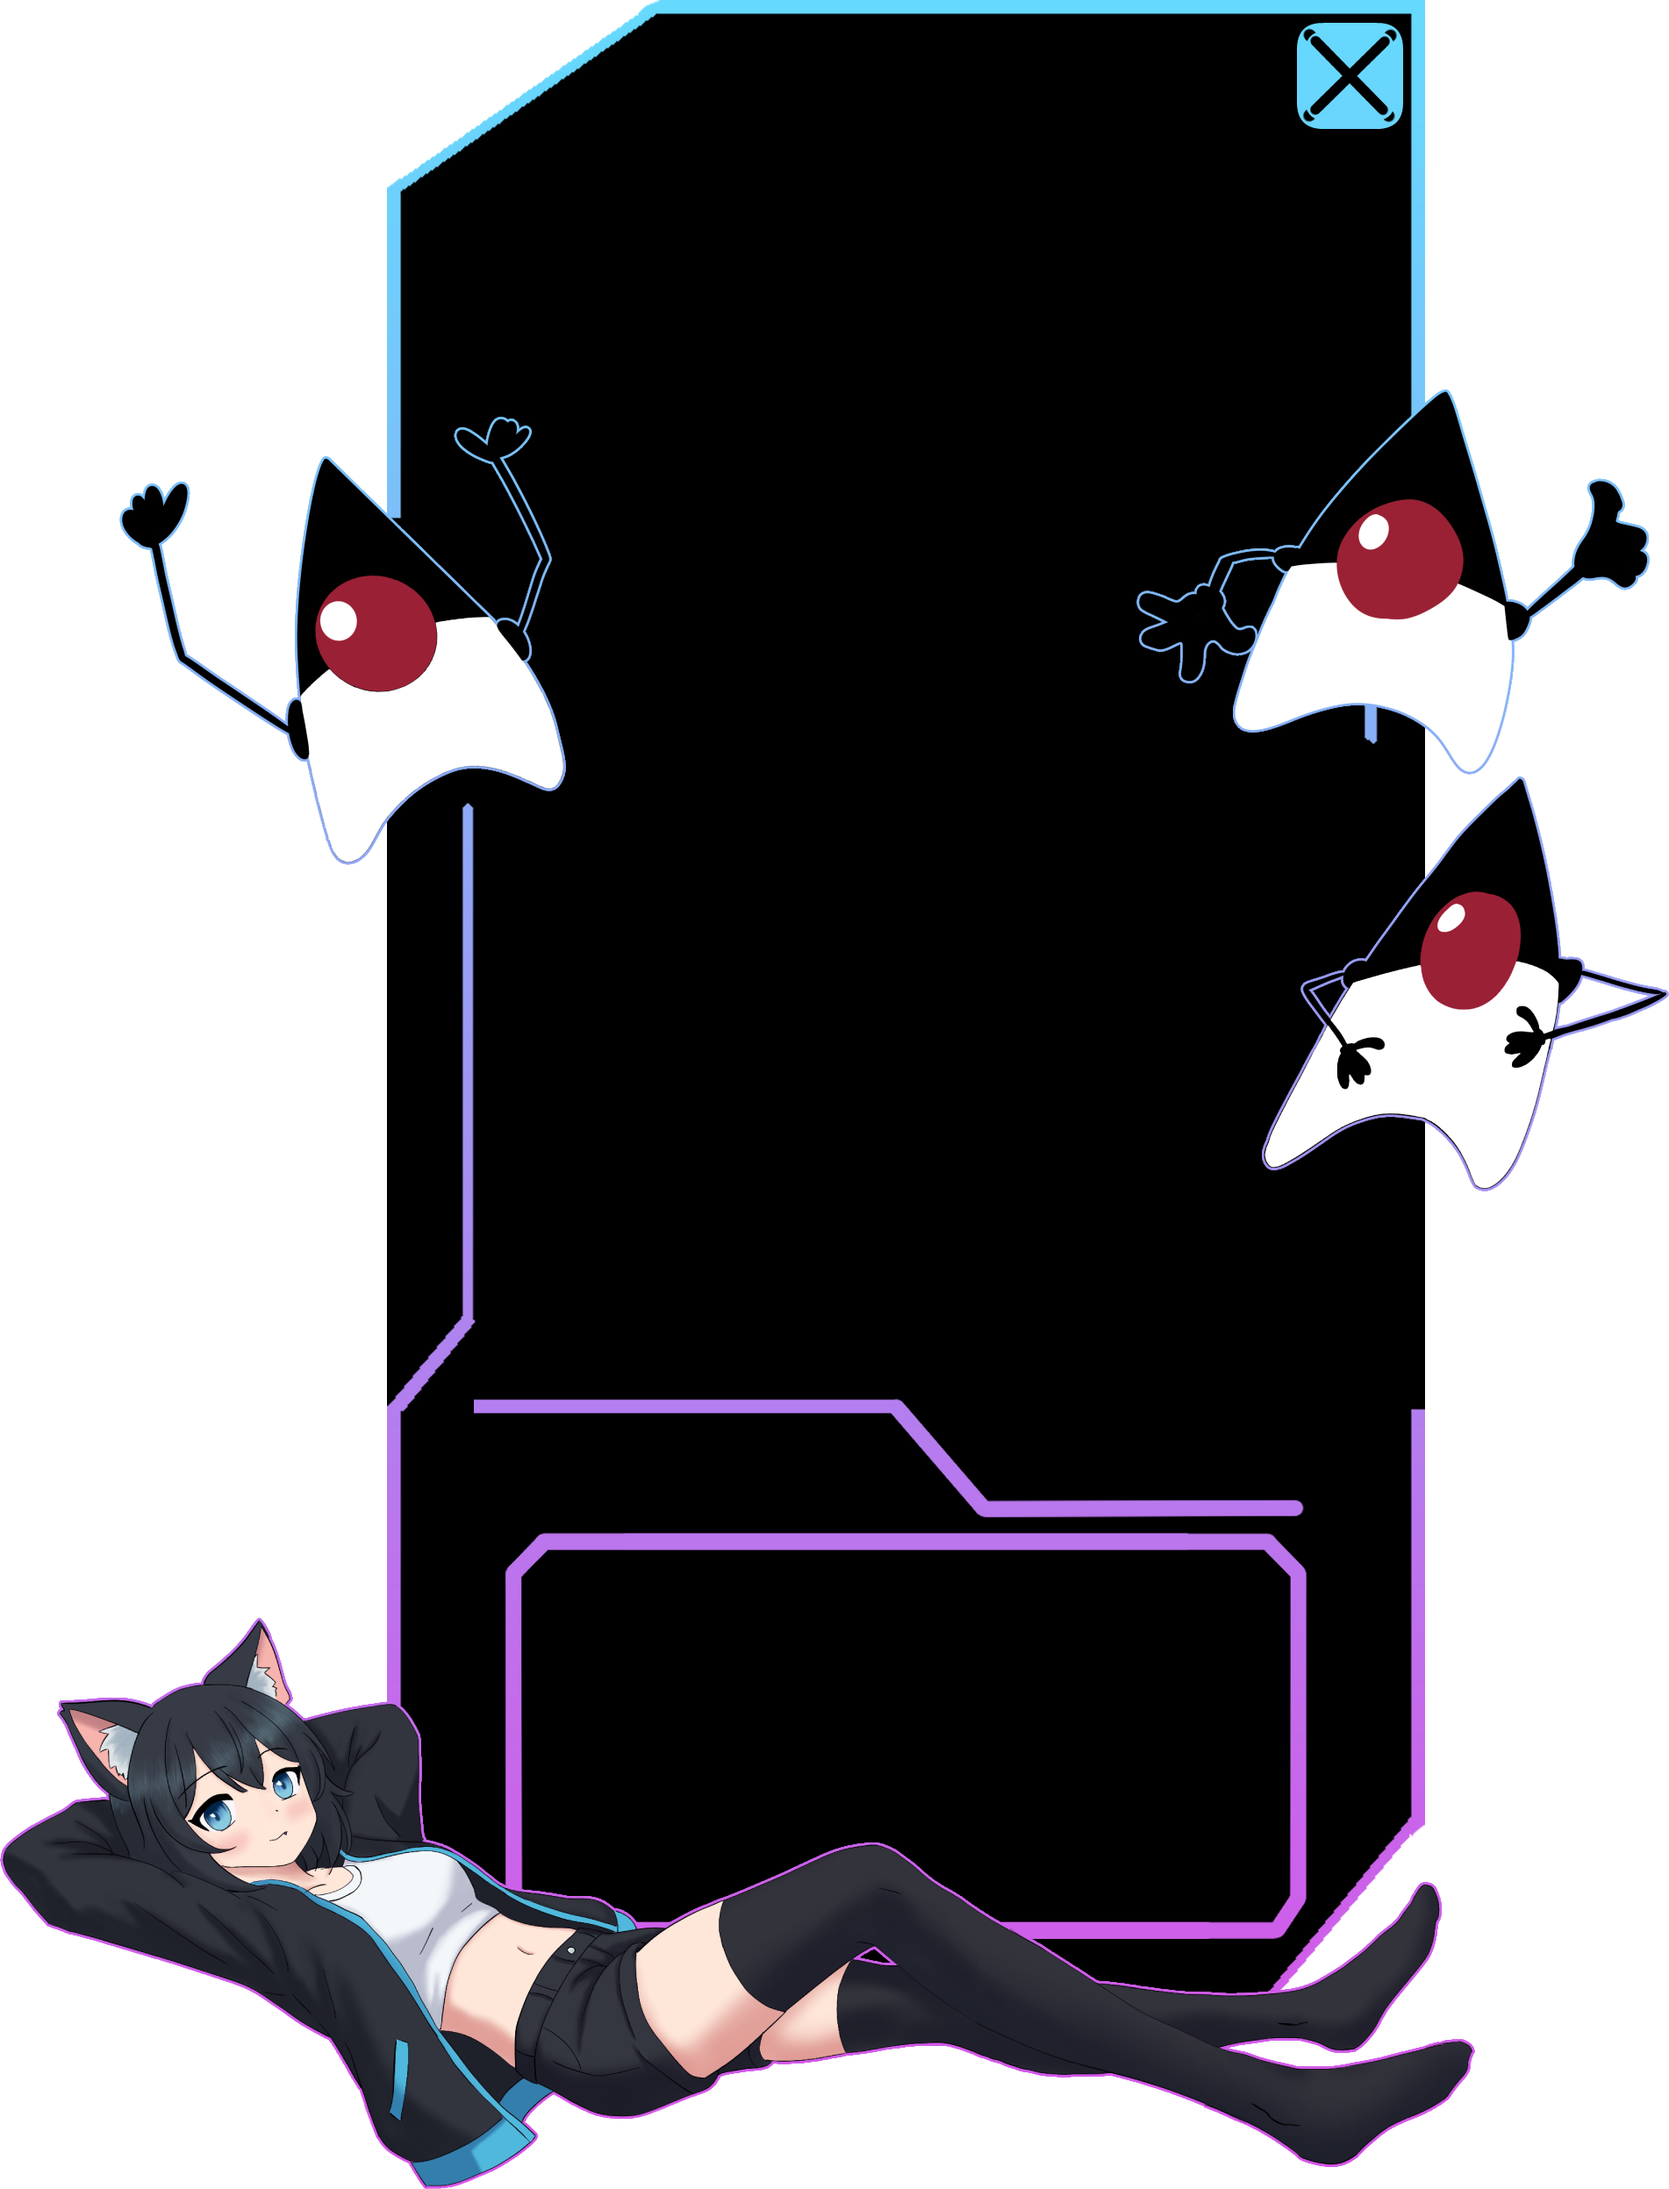
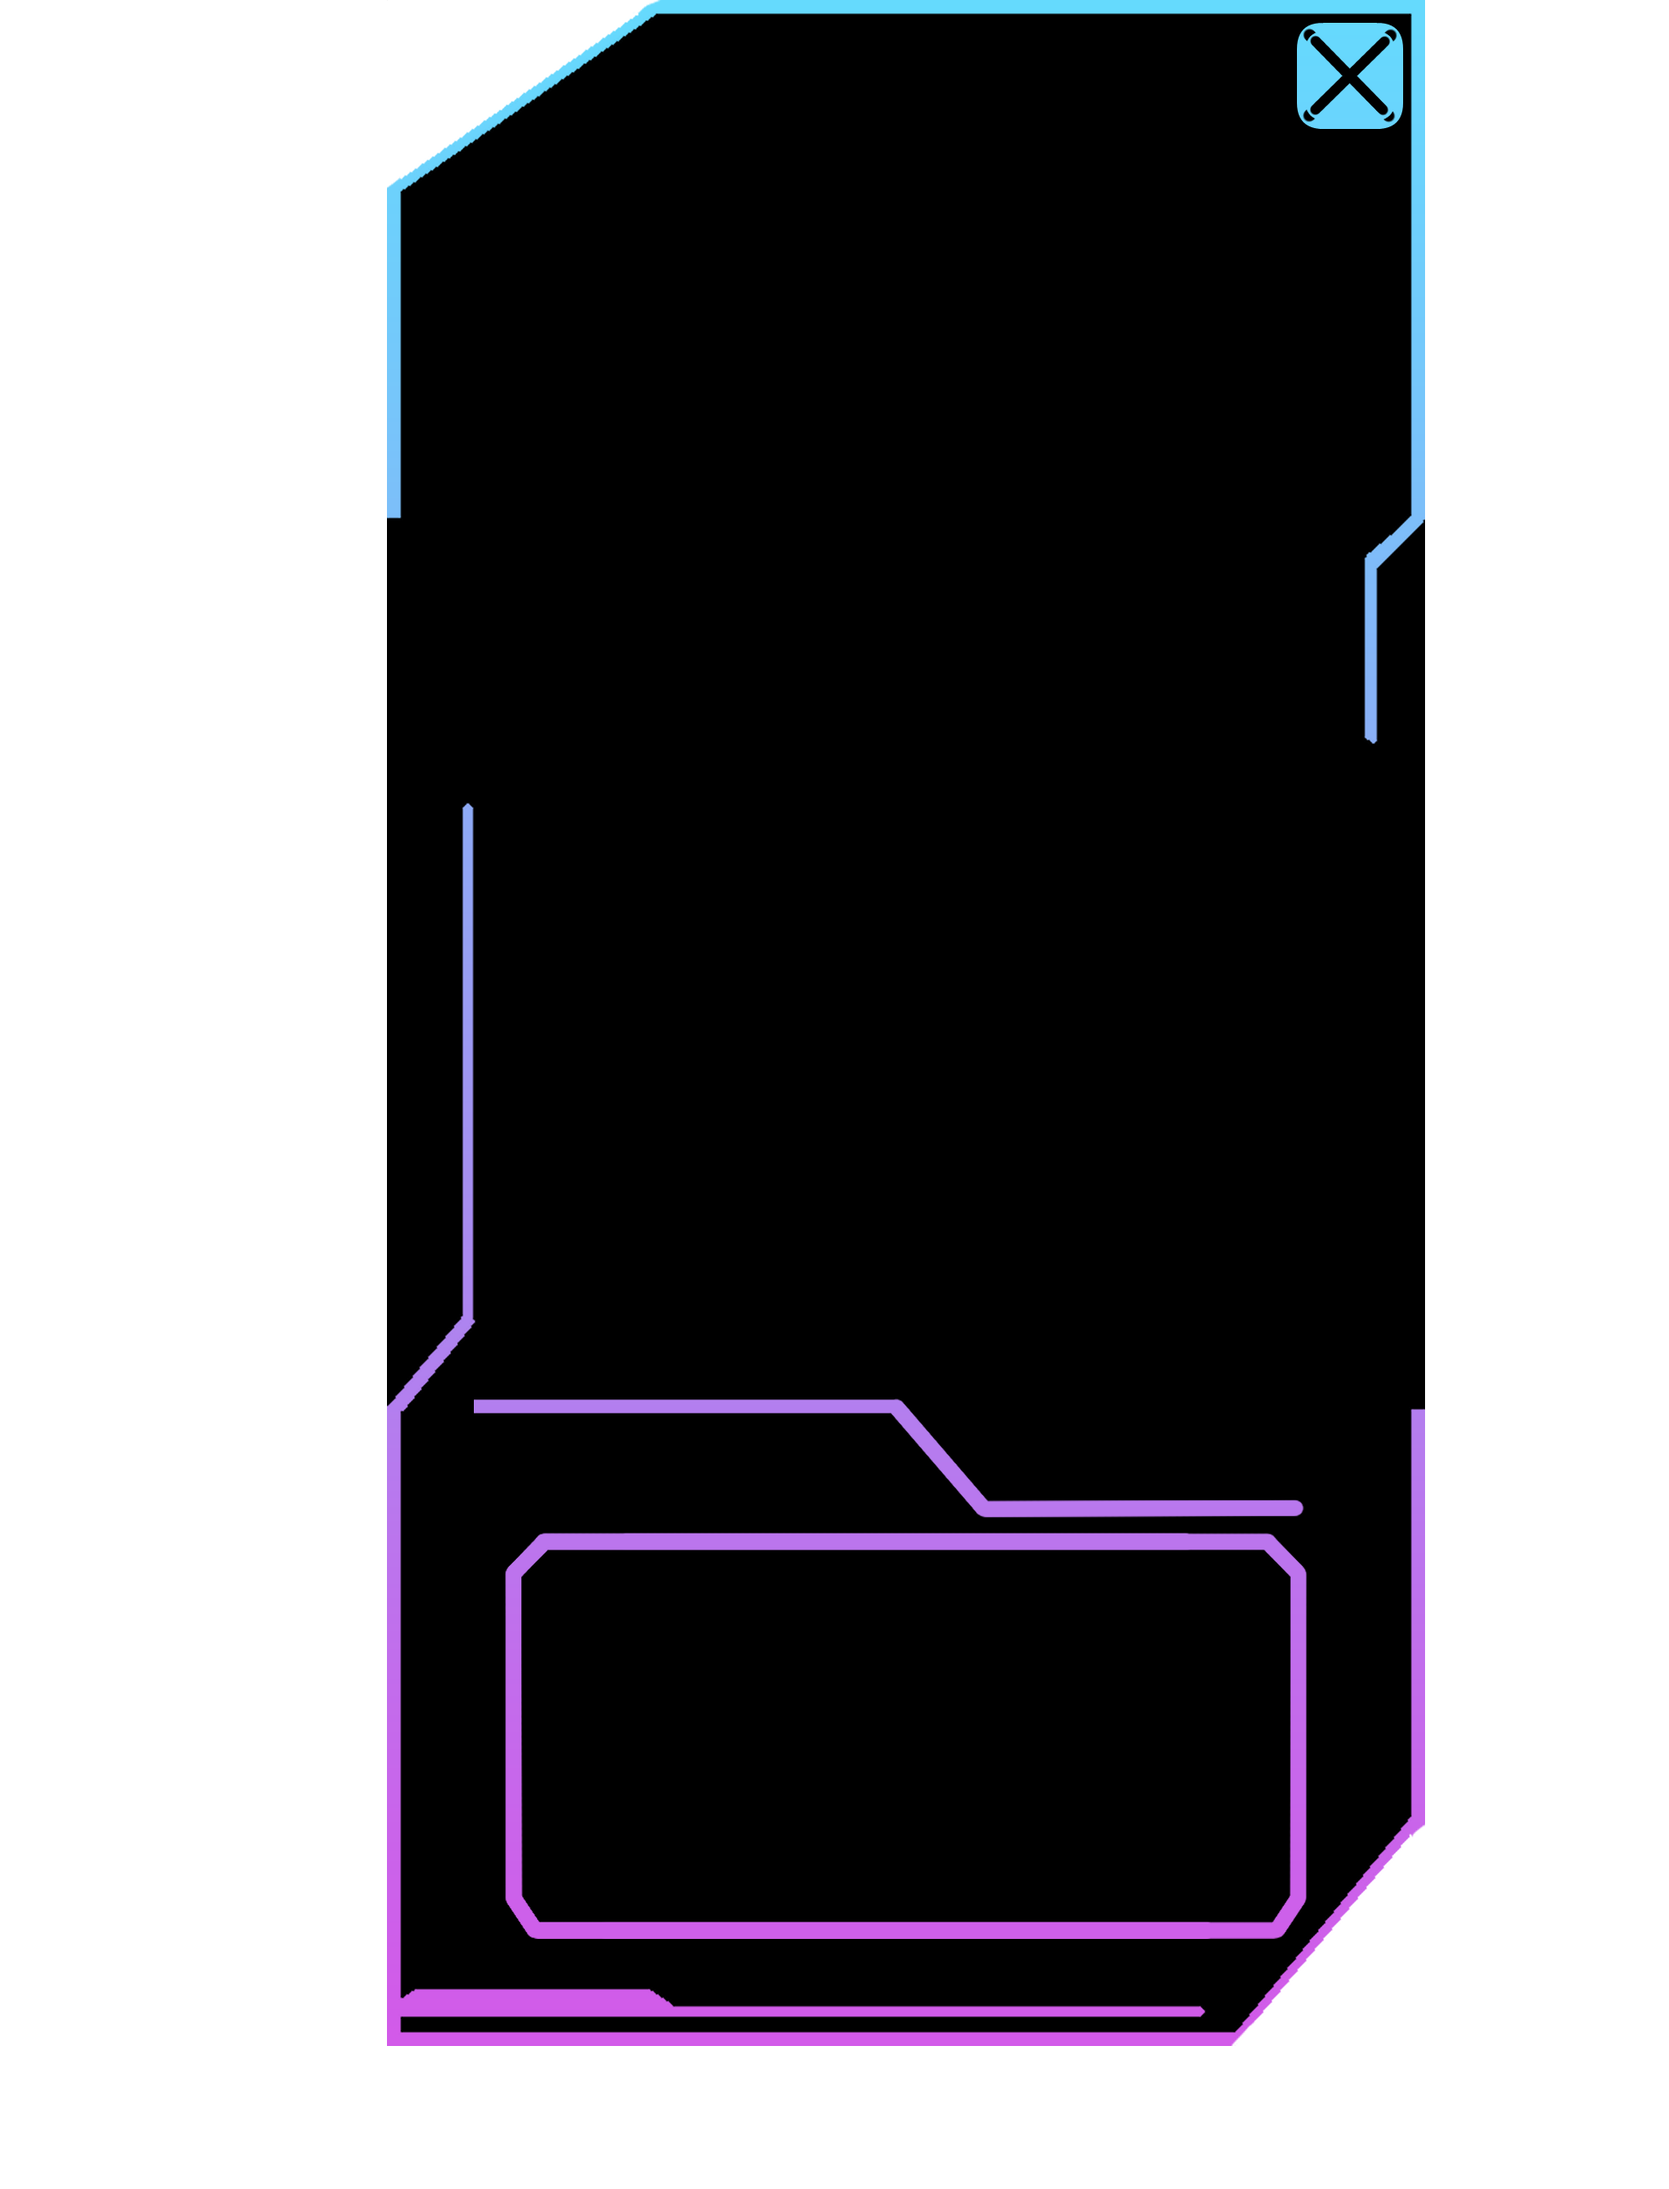
Had to rewrite the whole menuPanel.java for animated background... Also fixed a bug that the Menues flickered and added the sepret image files
Changes to be committed:
	modified:   .gitignore
	modified:   Main.java
	modified:   MenuPanel.java
	modified:   UIConfig.java
	modified:   img/background.png
	new file:   img/cgirl.png
	new file:   img/duke1.png
	new file:   img/duke2.png
	new file:   img/duke3.png

diff --git a/MenuPanel.java b/MenuPanel.java
@@ -2,22 +2,139 @@ import java.awt.*;
 import java.awt.image.BufferedImage;
 import java.io.File;
 import java.io.IOException;
+import java.util.ArrayList;
+import java.util.List;
 import java.net.URI;
 import javax.imageio.ImageIO;
 import javax.swing.*;
 
 public class MenuPanel extends JPanel {
-    private BufferedImage backgroundImage;
 
-    public MenuPanel() {
-        try {
-            backgroundImage = ImageIO.read(new File("img/background.png"));
-        } catch (IOException e) {
-            System.err.println("Could not load background image: " + e.getMessage());
+    private BufferedImage backgroundImage;
+    private List<FloatingElement> floaters;
+    private Timer animationTimer;
+    private BufferedImage frameBuffer;
+
+    private static BufferedImage scaleImage(BufferedImage src, int targetW, int targetH) {
+        if (src == null || targetW <= 0 || targetH <= 0) return src;
+        BufferedImage current = src;
+        int w = src.getWidth(), h = src.getHeight();
+        while (w > targetW || h > targetH) {
+            w = Math.max(targetW, w / 2);
+            h = Math.max(targetH, h / 2);
+            BufferedImage tmp = new BufferedImage(w, h, BufferedImage.TYPE_INT_ARGB);
+            Graphics2D g2 = tmp.createGraphics();
+            g2.setRenderingHint(RenderingHints.KEY_INTERPOLATION, RenderingHints.VALUE_INTERPOLATION_BICUBIC);
+            g2.setRenderingHint(RenderingHints.KEY_RENDERING, RenderingHints.VALUE_RENDER_QUALITY);
+            g2.drawImage(current, 0, 0, w, h, null);
+            g2.dispose();
+            current = tmp;
+        }
+        if (w != targetW || h != targetH) {
+            BufferedImage tmp = new BufferedImage(targetW, targetH, BufferedImage.TYPE_INT_ARGB);
+            Graphics2D g2 = tmp.createGraphics();
+            g2.setRenderingHint(RenderingHints.KEY_INTERPOLATION, RenderingHints.VALUE_INTERPOLATION_BICUBIC);
+            g2.drawImage(current, 0, 0, targetW, targetH, null);
+            g2.dispose();
+            current = tmp;
+        }
+        return current;
+    }
+
+    private static BufferedImage rotate(BufferedImage src, double degrees) {
+            if (src == null || degrees == 0) return src;
+            int w = src.getWidth(), h = src.getHeight();
+            int d = (int) Math.ceil(Math.hypot(w, h)) + 2;
+            BufferedImage out = new BufferedImage(d, d, BufferedImage.TYPE_INT_ARGB);
+            Graphics2D g2 = out.createGraphics();
+            g2.setRenderingHint(RenderingHints.KEY_INTERPOLATION, RenderingHints.VALUE_INTERPOLATION_BICUBIC);
+            g2.setRenderingHint(RenderingHints.KEY_ANTIALIASING, RenderingHints.VALUE_ANTIALIAS_ON);
+            g2.rotate(Math.toRadians(degrees), d / 2.0, d / 2.0);
+            g2.drawImage(src, (d - w) / 2, (d - h) / 2, null);
+            g2.dispose();
+            return out;
+    }
+
+
+
+    private class FloatingElement {
+        BufferedImage image;
+        int x;
+        double baseY, currentY;
+        int direction = 1;
+        double speed = 0.4;
+        int hoverLimit;
+
+        public FloatingElement(String imagePath, double centerX, double centerY, double designWidth, double tiltDegrees) {
+            double f = UIConfig.scaleFactor;
+            int w = (int) Math.round(designWidth * f);
+            this.hoverLimit = (int) Math.round(30 * f);
+            try {
+                BufferedImage src = ImageIO.read(new File(imagePath));
+                int h = (int) Math.round(w * (double) src.getHeight() / src.getWidth());
+
+                image = rotate(scaleImage(src, w, h), tiltDegrees);
+
+                this.x = (int) Math.round(centerX * f - image.getWidth() / 2.0);
+                this.baseY = centerY * f - image.getHeight() / 2.0;
+                this.currentY = this.baseY;
+            } catch (IOException e) {
+                System.err.println("Could not load " + imagePath);
+            }
         }
 
+        public void update() {
+            currentY += (speed * direction);
+            if (currentY >= baseY + hoverLimit) {
+                direction = -1; 
+            } else if (currentY <= baseY - hoverLimit) {
+                direction = 1; 
+            }
+        }
+        
+        public void draw(Graphics g) {
+            if (image != null) {
+                g.drawImage(image, x, (int) Math.round(currentY), null);
+            }
+        }
+    }
+
+    @Override
+    public void removeNotify() {
+        if (animationTimer != null) animationTimer.stop();
+        super.removeNotify();
+    }
+
+    public MenuPanel() {
+
+        try {
+            backgroundImage = scaleImage(ImageIO.read(new File("img/background.png")),
+                    Main.saveSystem.resWidth, Main.saveSystem.resHeight);
+        } catch (IOException e) {
+            System.err.println("Could not load background: " + e.getMessage());
+        }
+
+        floaters = new ArrayList<>();
+
+        floaters.add(new FloatingElement("img/cgirl.png", 842, 2196, 1689,   0));
+        floaters.add(new FloatingElement("img/duke1.png", 440,  711,  479, -24));
+        floaters.add(new FloatingElement("img/duke2.png", 1598, 661,  575,   8));
+        floaters.add(new FloatingElement("img/duke3.png", 1680, 1134, 466,   0));
+
+        floaters.get(1).direction = -1;
+        floaters.get(3).direction = -1;
+
+        animationTimer = new Timer(16, e -> {
+            for (FloatingElement floater : floaters) {
+                floater.update();
+            }
+            repaint();
+        });
+        animationTimer.start();
+
         this.setLayout(null);
-        this.setOpaque(false);
+
+        this.setDoubleBuffered(false);
 
         JLabel userLabel = new JLabel("Welcome, " + Main.saveSystem.username, SwingConstants.CENTER);
         userLabel.setFont(UIConfig.SUBTITLE_FONT);
@@ -46,7 +163,7 @@ public class MenuPanel extends JPanel {
                     int score = Main.saveSystem.getHighScore(levelName);
                     String grade = Main.saveSystem.getGrade(levelName);
                     JButton btn = new JButton(levelName + "  |  Best: " + score + " [" + grade + "]");
-                    
+
                     btn.setFont(UIConfig.LEVEL_BTN_FONT);
                     btn.setFocusPainted(false);
                     btn.setBounds(UIConfig.MENU_LEVEL_START_X, currentLevelY, UIConfig.LEVEL_BTN_SIZE.width, UIConfig.LEVEL_BTN_SIZE.height);
@@ -116,24 +233,52 @@ public class MenuPanel extends JPanel {
         }
 
     @Override
-    protected void paintComponent(Graphics g) {
-        super.paintComponent(g);
-        if (backgroundImage != null) {
-            g.drawImage(backgroundImage, 0, 0, getWidth(), getHeight(), this);
+    public boolean isOpaque() {
+        return true;
+    }
+
+    @Override
+    public void paint(Graphics g) {
+        int w = getWidth(), h = getHeight();
+        if (w <= 0 || h <= 0) return;
+
+        if (frameBuffer == null || frameBuffer.getWidth() != w || frameBuffer.getHeight() != h) {
+            frameBuffer = new BufferedImage(w, h, BufferedImage.TYPE_INT_ARGB);
         }
+
+        Graphics2D b = frameBuffer.createGraphics();
+        b.setComposite(AlphaComposite.Clear);
+        b.fillRect(0, 0, w, h);
+        b.setComposite(AlphaComposite.SrcOver);
+
+        if (backgroundImage != null) {
+            b.drawImage(backgroundImage, 0, 0, null);
+        }
+        for (FloatingElement floater : floaters) {
+            floater.draw(b);
+        }
+        paintChildren(b);
+        b.dispose();
+
+        Graphics2D g2 = (Graphics2D) g.create();
+        g2.setComposite(AlphaComposite.Src);
+        g2.drawImage(frameBuffer, 0, 0, null);
+        g2.dispose();
+
+        Toolkit.getDefaultToolkit().sync();
     }
 
     private void openSettingsMenu() {
         JDialog settingsDialog = new JDialog(Main.frame, "Settings", true);
-        settingsDialog.setSize(350, 350); 
-        settingsDialog.setLocationRelativeTo(this); 
+        settingsDialog.setSize(350, 350);
+        settingsDialog.setLocationRelativeTo(this);
         settingsDialog.getContentPane().setBackground(new Color(40, 40, 40));
         settingsDialog.setLayout(new BoxLayout(settingsDialog.getContentPane(), BoxLayout.Y_AXIS));
 
         JLabel nameLabel = new JLabel("Username:");
         nameLabel.setForeground(Color.WHITE);
         nameLabel.setAlignmentX(Component.CENTER_ALIGNMENT);
-        
+
         JTextField nameField = new JTextField(Main.saveSystem.username, 15);
         nameField.setMaximumSize(new Dimension(200, 30));
         nameField.setAlignmentX(Component.CENTER_ALIGNMENT);
@@ -154,26 +299,26 @@ public class MenuPanel extends JPanel {
         resLabel.setAlignmentX(Component.CENTER_ALIGNMENT);
 
         String[] resOptions = {
-            "951 x 1247 (Original)", 
-            "760 x 998", 
-            "634 x 831", 
+            "951 x 1247 (Original)",
+            "760 x 998",
+            "634 x 831",
             "475 x 623"
         };
         JComboBox<String> resDropdown = new JComboBox<>(resOptions);
         resDropdown.setMaximumSize(new Dimension(200, 30));
         resDropdown.setAlignmentX(Component.CENTER_ALIGNMENT);
-        
+
         if (Main.saveSystem.resWidth == 760) resDropdown.setSelectedIndex(1);
         else if (Main.saveSystem.resWidth == 634) resDropdown.setSelectedIndex(2);
         else if (Main.saveSystem.resWidth == 475) resDropdown.setSelectedIndex(3);
-        else resDropdown.setSelectedIndex(0); 
+        else resDropdown.setSelectedIndex(0);
 
         JButton saveBtn = new JButton("Save & Apply Settings");
         saveBtn.setAlignmentX(Component.CENTER_ALIGNMENT);
         saveBtn.addActionListener(e -> {
             Main.saveSystem.username = nameField.getText();
             Main.saveSystem.volume = volSlider.getValue();
-            
+
             int selectedRes = resDropdown.getSelectedIndex();
             switch(selectedRes) {
                 case 0: Main.saveSystem.resWidth = 951; Main.saveSystem.resHeight = 1247; break;
@@ -181,12 +326,12 @@ public class MenuPanel extends JPanel {
                 case 2: Main.saveSystem.resWidth = 634; Main.saveSystem.resHeight = 831; break;
                 case 3: Main.saveSystem.resWidth = 475; Main.saveSystem.resHeight = 623; break;
             }
-            
+
             UIConfig.updateForResolution(Main.saveSystem.resWidth, Main.saveSystem.resHeight);
-            
+
             Main.frame.setSize(Main.saveSystem.resWidth, Main.saveSystem.resHeight);
-            Main.frame.setLocationRelativeTo(null); 
-            
+            Main.frame.setLocationRelativeTo(null);
+
             Main.saveSystem.saveConfig();
             settingsDialog.dispose();
             Main.showMenu();
@@ -203,9 +348,7 @@ public class MenuPanel extends JPanel {
         settingsDialog.add(resDropdown);
         settingsDialog.add(Box.createVerticalStrut(20));
         settingsDialog.add(saveBtn);
-        
+
         settingsDialog.setVisible(true);
-    }
 }
-
-
+}

diff --git a/UIConfig.java b/UIConfig.java
@@ -31,7 +31,7 @@ public class UIConfig {
     public static int PAUSE_RESUME_Y;
     public static int PAUSE_MENU_X;
     public static int PAUSE_MENU_Y;
-    
+
     public static int MENU_MANUAL_X;
     public static int MENU_MANUAL_Y;
 
@@ -47,7 +47,15 @@ public class UIConfig {
     public static final Color EXIT_BG = new Color(50, 0, 0);
     public static final Color EXIT_BG_M = new Color(150, 110, 40, 0);
 
+    public static double scaleFactor = 0.5;
+
+    public static int scale(int baseValue) {
+        return (int) Math.round(baseValue * scaleFactor);
+    }
+
     public static void updateForResolution(int width, int height) { //for some reason i cant look the ratio of thw window so there are 4 presets i calculated with the style exel sheet u can also edit stuff there it should al be linkened together.
+        scaleFactor = width / 1902.0;
+
         if (width >= 951) {
             LEVEL_BTN_SIZE = new Dimension(420, 50);
             ACTION_BTN_SIZE = new Dimension(300, 45);

diff --git a/Main.java b/Main.java
@@ -25,6 +25,8 @@ public class Main {
         frame.setBackground(new Color(0, 0, 0, 0));
         frame.getContentPane().setBackground(new Color(0, 0, 0, 0));
 
+        frame.getRootPane().setDoubleBuffered(false);
+
 
         frame.setVisible(true);
     }
